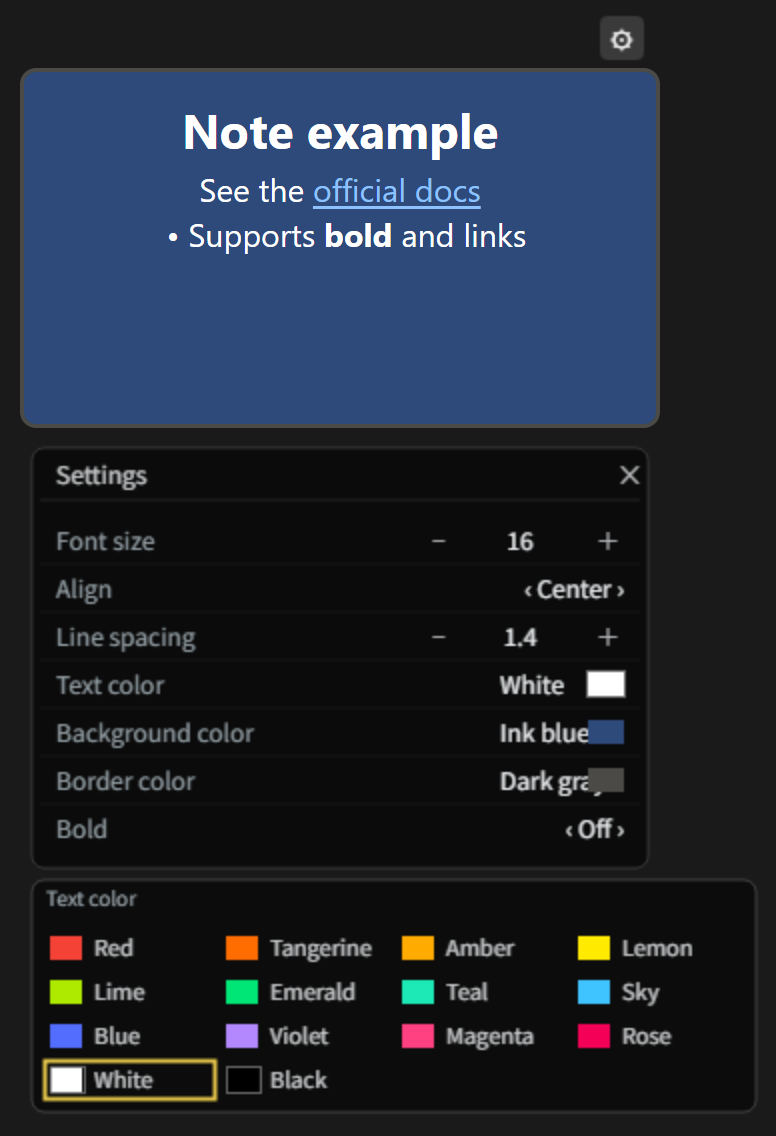
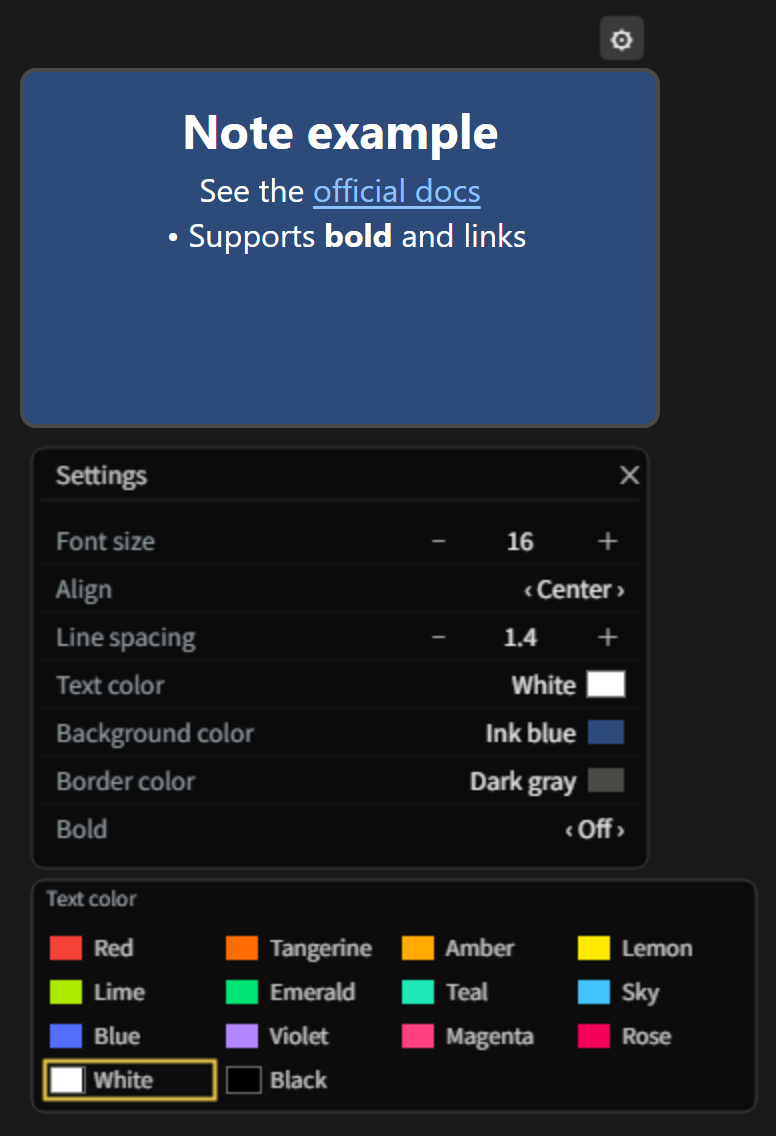
fix: stop clipping long color names in the settings panel; publish the test suite
Panel drawing (English UI showed "Dark gra" running into the swatch):

- the color value was drawn left-aligned from `right - 62`, so any name wider
  than ~44px grew rightwards into the swatch (drawn at `right - 18` … `right`)
- it is now right-aligned to `right - 24`, i.e. flush against the swatch with a
  6px gap — matches how the align/bold rows already right-align their value
- palette cells also got a guard: if a name does not fit the cell it steps the
  font down (11 → 8px) instead of running into the swatch

Tests are now part of the repo:

- `tests/check.js` — the mocked-browser assertion suite (no dependencies,
  `node tests/check.js`), covering registration, i18n, placeholder hints +
  legacy migration, the render layer, click-to-edit and caret placement, drag /
  link guards, panel geometry and the new drawing alignment; both the
  `ComfyWidgets.STRING` and the `addWidget` fallback path are exercised
- the two alignment assertions were mutation-tested: restoring the old
  `left` / `right - 62` line makes them fail (4 failures), so they do guard the
  regression rather than merely passing
- readme: the stale "23 assertions" claim replaced with the real count (117)
  and how to run them, in both languages

Screenshots: the six images that show the settings panel regenerated (the two
hint-only shots are unchanged).

Changed region(s): [[0.5876, 0.5854, 0.7732, 0.7086]]

diff --git a/tests/check.js b/tests/check.js
@@ -1,0 +1,323 @@
+/* TextNote 断言测试（模拟浏览器，纯 Node 跑，无任何依赖）
+ * 用法: node tests/check.js      （Node 18+；直接读 ../web/textnote_canvas.js）
+ *
+ * 覆盖：注册、i18n 文案、占位提示与旧版迁移、渲染层富文本（超链接/Markdown/灰字提示）、
+ *       单击进编辑、光标落在点击处（含越界夹紧与不支持时的兜底）、拖动/链接不误触发、
+ *       设置面板几何与绘制对齐（英文长颜色名不再压到色块上）。
+ * 两条控件来源各跑一遍：真实 ComfyUI 的 ComfyWidgets.STRING 路径 + addWidget 回退路径。
+ */
+const fs = require("fs");
+const path = require("path");
+const SRC = path.resolve(__dirname, "..", "web", "textnote_canvas.js");
+
+let pass = 0, fail = 0;
+const ok = (cond, label) => {
+    if (cond) { pass++; console.log("  PASS " + label); }
+    else { fail++; console.log("  FAIL " + label); }
+};
+
+function makeEl(tag) {
+    const el = {
+        tagName: tag, style: {}, dataset: {}, children: [], value: "",
+        placeholder: undefined, listeners: {},
+        classList: { _s: new Set(), add(c) { this._s.add(c); }, contains(c) { return this._s.has(c); } },
+        setAttribute() {}, removeAttribute() {},
+        addEventListener(t, f) { (this.listeners[t] = this.listeners[t] || []).push(f); },
+        appendChild(c) { this.children.push(c); c.parentElement = this; return c; },
+        remove() {}, closest() { return null; }, focus() { this.__focused = true; },
+        setSelectionRange(s, e) { this.selectionStart = s; this.selectionEnd = e; this.__selCalls = (this.__selCalls || 0) + 1; },
+        getBoundingClientRect() { return this.__rect || { left: 0, top: 0, right: 0, bottom: 0, width: 0, height: 0 }; },
+    };
+    Object.defineProperty(el, "innerHTML", { get() { return this._html || ""; }, set(v) { this._html = v; } });
+    Object.defineProperty(el, "lastElementChild", { get() { return this.children[this.children.length - 1] || null; } });
+    return el;
+}
+
+/** 记录 fillText 调用的假 2D 上下文，用来断言面板是怎么画的（对齐/坐标） */
+function makeCtx() {
+    const state = {
+        textAlign: "left", textBaseline: "alphabetic",
+        font: "12px sans-serif", fillStyle: "", strokeStyle: "", lineWidth: 1,
+    };
+    const rec = { texts: [] };
+    const noop = () => {};
+    const ctx = {
+        save: noop, restore: noop, beginPath: noop, closePath: noop, moveTo: noop, lineTo: noop,
+        stroke: noop, fill: noop, rect: noop, arcTo: noop, strokeRect: noop, fillRect: noop,
+        roundRect: noop, clearRect: noop, translate: noop,
+        fillText(s, x, y) { rec.texts.push({ s: String(s), x, y, align: state.textAlign, font: state.font }); },
+        measureText(s) { return { width: String(s).length * 6 }; },
+    };
+    for (const k of Object.keys(state)) {
+        Object.defineProperty(ctx, k, { get: () => state[k], set: (v) => { state[k] = v; }, enumerable: true });
+    }
+    return { ctx, rec };
+}
+
+function loadModule({ withComfyWidgets }) {
+    let src = fs.readFileSync(SRC, "utf8");
+    src = src.replace(/^[ \t]*import .*$/m, "");      // 去掉 ESM import，改用注入的 app
+
+    const cap = { raf: 0 };
+    globalThis.window = globalThis;
+    globalThis.LiteGraph = { registerNodeType: (n, cls) => { cap.name = n; cap.cls = cls; } };
+    globalThis.LGraphNode = class {
+        constructor() { this.widgets = []; this.properties = {}; this.flags = {}; }
+        addWidget(type, name, value, cb, opts) {
+            const w = { type, name, value, options: opts || {} };
+            this.widgets.push(w);
+            return w;
+        }
+        setDirtyCanvas() {}
+    };
+    globalThis.document = {
+        head: makeEl("head"), body: makeEl("body"),
+        getElementById() { return null; },
+        createElement: (t) => makeEl(t),
+        caretPositionFromPoint: null,
+        caretRangeFromPoint: null,
+    };
+    // 同步化定时器/帧回调，测试里不需要真等待
+    globalThis.setTimeout = (fn) => { fn(); return 0; };
+    globalThis.requestAnimationFrame = (fn) => { cap.raf++; fn(); return 0; };
+    try { Object.defineProperty(globalThis, "navigator", { value: { language: "zh-CN" }, configurable: true }); } catch {}
+
+    if (withComfyWidgets) {
+        globalThis.comfyAPI = { widgets: { ComfyWidgets: { STRING: (node, name, spec) => {
+            // 模仿前端 createMultilineInputElement：default → value，placeholder → textarea
+            const ta = makeEl("textarea");
+            ta.value = spec[1].default;
+            ta.placeholder = spec[1].placeholder;
+            const w = { type: "customtext", name, value: ta.value, options: {}, element: ta, inputEl: ta };
+            node.widgets.push(w);
+            cap.spec = spec;
+            return { widget: w };
+        } } } };
+    } else {
+        delete globalThis.comfyAPI;
+    }
+
+    const app = { registerExtension(ext) { ext.registerCustomNodes(); } };
+    const fn = new Function("app", src + "\nreturn { renderRichText, normalizeNoteText, LEGACY_PLACEHOLDER_TEXTS, I18N, CLICK_DRAG_TOLERANCE };");
+    return { cap, api: fn(app) };
+}
+
+const noLink = { closest: () => null };
+const linkTarget = { closest: (sel) => (sel === "a" ? {} : null) };
+
+for (const mode of [true, false]) {
+    console.log("\n=== ComfyWidgets 路径: " + (mode ? "有（真实 ComfyUI）" : "无（回退 addWidget）") + " ===");
+    const { cap, api } = loadModule({ withComfyWidgets: mode });
+    const node = new cap.cls();
+    const textW = node.widgets.find((w) => w.name === "text");
+    const ZH = api.I18N.zh.defaultText;
+    const EN = api.I18N.en.defaultText;
+
+    /* ---------- 注册与默认值 ---------- */
+    ok(cap.name === "TextNote", "节点注册名 TextNote");
+    ok(!!textW, "存在 text 正文控件");
+    ok(textW.value === "", "新建便签正文默认为空字符串（不需要再删提示文字）");
+    ok(textW.options.hideOnZoom === false, "正文控件 hideOnZoom=false");
+
+    /* ---------- 提示文案：v4.3 改成了「单击」 ---------- */
+    ok(ZH.includes("单击即可输入"), "中文提示是「单击即可输入」");
+    ok(!ZH.includes("双击"), "中文提示不再写「双击」");
+    ok(EN.includes("Click to edit"), "英文提示是 Click to edit");
+    ok(!EN.includes("Double-click"), "英文提示不再写 Double-click");
+    if (mode) ok(cap.spec[1].placeholder === ZH, "STRING spec 带上 placeholder（前端原生写入 textarea）");
+
+    /* ---------- 空便签的灰色占位提示 ---------- */
+    const hint = api.renderRichText("");
+    ok(hint.includes("在这里写说明、备注…"), "空便签渲染出中文占位提示");
+    ok(hint.includes("white-space:pre-wrap"), "占位提示保留换行（pre-wrap）");
+    ok(hint.includes("opacity:.45"), "占位提示为灰色弱化显示");
+    ok(api.renderRichText("   ").includes("在这里写说明"), "纯空白也按空便签处理");
+    ok(!api.renderRichText("# 我的标题").includes("在这里写说明"), "有正文时不再显示占位提示");
+    ok(api.renderRichText("**粗**").includes("<b>粗</b>"), "加粗渲染仍正常");
+    ok(api.renderRichText("[标题](https://a.com)").includes('href="https://a.com"'), "超链接渲染仍正常");
+
+    /* ---------- 旧工作流占位提示清理（覆盖所有已发布文案） ---------- */
+    for (const old of [
+        "在这里写说明、备注…",
+        "Write notes and remarks here",
+        "  在这里写说明、备注…  ",
+        "Write notes and remarks here\r\n",
+        "在这里写说明、备注…\n双击编辑；支持 [标题](链接) 超链接",
+        "Write notes here…\r\nDouble-click to edit; [label](link) supported  ",
+    ]) {
+        textW.value = old;
+        ok(node._clearLegacyPlaceholder() === true && textW.value === "",
+            "旧版提示被识别并清空: " + JSON.stringify(old.slice(0, 22)) + "…");
+    }
+    const keep = "在这里写说明、备注…\n双击编辑；支持 [标题](链接) 超链接我的补充";
+    textW.value = keep;
+    ok(node._clearLegacyPlaceholder() === false, "用户改过的文字不会被误清");
+    ok(textW.value === keep, "误清检查后正文保持原样");
+    textW.value = "便签备注";
+    ok(node._clearLegacyPlaceholder() === false, "普通正文不受影响");
+
+    /* ---------- 渲染层 ---------- */
+    node._renderDiv = makeEl("div");
+    textW.value = "";
+    node._renderIntoDiv();
+    ok(node._renderDiv.innerHTML.includes("在这里写说明"), "_renderIntoDiv 空正文 → 占位提示");
+    ok(node._renderDiv.__lastText === "", "渲染层缓存 __lastText 为空字符串");
+    textW.value = "在这里写说明、备注…\n双击编辑；支持 [标题](链接) 超链接";
+    node._renderIntoDiv();
+    ok(textW.value === "" && node._renderDiv.innerHTML.includes("在这里写说明"),
+        "_renderIntoDiv 自动清掉旧占位提示后再渲染");
+
+    /* ---------- 单击进编辑 + 光标落点 ---------- */
+    const ta = makeEl("textarea");
+    ta.parentElement = makeEl("div");
+    node.textWidget.inputEl = ta;
+    node.textWidget.element = ta;
+    textW.value = "第一行\n第二行 hello";
+    ta.value = textW.value;
+    node.applyNoteStyles();
+    const div = node._renderDiv;
+    ok(!!(div.listeners.click && div.listeners.click.length), "渲染层绑定了单击（click）事件");
+    ok(!div.listeners.dblclick, "不再依赖双击（dblclick）");
+
+    const click = (x, y, target) => {
+        (div.listeners.mousedown || []).forEach((f) => f({ clientX: x, clientY: y, target: target || noLink }));
+        (div.listeners.click || []).forEach((f) =>
+            f({ clientX: x, clientY: y, target: target || noLink, stopPropagation() {} }));
+    };
+
+    // 点击坐标 → 浏览器报出的字符下标 → 光标应落在那里
+    globalThis.document.caretPositionFromPoint = () => ({ offsetNode: ta, offset: 6 });
+    node._editMode = false;
+    click(120, 60);
+    ok(node._editMode === true, "单击正文 → 进入编辑态");
+    ok(ta.__focused === true, "进入编辑态后 textarea 获得焦点");
+    ok(ta.selectionStart === 6 && ta.selectionEnd === 6, "光标落在点击处（下标 6，无需方向键）");
+
+    // 越界下标要被夹到 [0, len]
+    globalThis.document.caretPositionFromPoint = () => ({ offsetNode: ta, offset: 9999 });
+    node._editMode = false;
+    click(120, 60);
+    ok(ta.selectionStart === ta.value.length, "越界下标被夹到正文末尾");
+    globalThis.document.caretPositionFromPoint = () => ({ offsetNode: ta, offset: -5 });
+    node._editMode = false;
+    click(120, 60);
+    ok(ta.selectionStart === 0, "负下标被夹到 0");
+
+    // 点正文最后一行下方空白 → 光标到末尾
+    const lastLine = makeEl("div");
+    lastLine.__rect = { left: 0, top: 0, right: 100, bottom: 40, width: 100, height: 20 };
+    div.appendChild(lastLine);
+    globalThis.document.caretPositionFromPoint = () => ({ offsetNode: ta, offset: 4 });
+    node._editMode = false;
+    click(50, 90);
+    ok(ta.selectionStart === ta.value.length, "点最后一行下方的空白 → 光标到正文末尾");
+
+    // 不支持 caretPositionFromPoint 的浏览器：兜底 + 下一帧重试
+    globalThis.document.caretPositionFromPoint = null;
+    globalThis.document.caretRangeFromPoint = () => ({ startContainer: document.body, startOffset: 2 });
+    const rafBefore = cap.raf;
+    node._editMode = false;
+    click(50, 10);
+    ok(node._editMode === true, "命中失败也能进编辑态（不卡住）");
+    ok(cap.raf > rafBefore, "命中失败会安排下一帧重试");
+
+    // 兜底是按行高估算行号，而不是傻跳到末尾
+    div.children.length = 0;        // 清掉上面用于测「点最后一行下方」的假元素
+    ta.__rect = { left: 0, top: 100, right: 300, bottom: 250, width: 300, height: 150 };
+    textW.value = "第一行aaa\n第二行bbb\n第三行ccc";
+    ta.value = textW.value;
+    globalThis.document.caretRangeFromPoint = null;      // 完全命中不到
+    node._editMode = false;
+    click(50, 130);                                      // 130 = top + 20*1.5 → 第 2 行
+    ok(ta.selectionStart === "第一行aaa".length + 1,
+        "命中不到时兜底到点击所在行的行首（不是末尾）");
+    node._editMode = false;
+    click(50, 240);                                      // 最后一行之下 → 末尾
+    ok(ta.selectionStart === ta.value.length, "点在正文最后一行之下时兜底到末尾");
+    ta.__rect = null;
+    ta.value = "";
+
+    // 兼容 caretRangeFromPoint 返回 textarea 内部文本节点的情况
+    textW.value = "abcdef";
+    ta.value = textW.value;
+    const inner = makeEl("#text");
+    inner.nodeType = 3;
+    inner.parentElement = { closest: (sel) => (sel === "textarea" ? ta : null) };
+    globalThis.document.caretRangeFromPoint = () => ({ startContainer: inner, startOffset: 3 });
+    node._editMode = false;
+    click(50, 10);
+    ok(ta.selectionStart === 3, "caretRangeFromPoint 返回 textarea 内文本时也能定位");
+
+    /* ---------- 链接 / 拖动 不误触发编辑 ---------- */
+    globalThis.document.caretPositionFromPoint = () => ({ offsetNode: ta, offset: 2 });
+    let stopped = false;
+    node._editMode = false;
+    (div.listeners.mousedown || []).forEach((f) => f({ clientX: 10, clientY: 10, target: linkTarget }));
+    (div.listeners.click || []).forEach((f) =>
+        f({ clientX: 10, clientY: 10, target: linkTarget, stopPropagation() { stopped = true; } }));
+    ok(node._editMode === false, "点超链接不进编辑态（照常打开链接）");
+    ok(stopped === true, "点超链接阻止冒泡（不触发画布拖动）");
+
+    node._editMode = false;
+    (div.listeners.mousedown || []).forEach((f) => f({ clientX: 10, clientY: 10, target: noLink }));
+    (div.listeners.click || []).forEach((f) =>
+        f({ clientX: 10 + api.CLICK_DRAG_TOLERANCE + 20, clientY: 10, target: noLink, stopPropagation() {} }));
+    ok(node._editMode === false, "按下后拖动超过阈值 → 不进编辑态（可继续挪节点）");
+
+    node._editMode = false;
+    (div.listeners.mousedown || []).forEach((f) => f({ clientX: 10, clientY: 10, target: noLink }));
+    (div.listeners.click || []).forEach((f) =>
+        f({ clientX: 10 + api.CLICK_DRAG_TOLERANCE - 1, clientY: 10, target: noLink, stopPropagation() {} }));
+    ok(node._editMode === true, "阈值内的轻微抖动仍算单击");
+
+    /* ---------- 样式与面板 ---------- */
+    node._editMode = false;
+    node.applyNoteStyles();
+    ok(ta.placeholder === ZH, "textarea placeholder 设置为提示文案");
+    ok(ta.classList.contains("tn-textnote-input"), "textarea 打上样式类（::placeholder 跟随文字色）");
+    ta.value = "SENTINEL";                 // 插件不得往 value 里写任何东西（尤其提示文案）
+    node.applyNoteStyles();
+    ok(ta.value === "SENTINEL", "applyNoteStyles 不碰 textarea 的 value（提示不进正文）");
+    ok(ta.value !== ZH, "提示文案没有被塞进 textarea");
+    ta.value = "";
+
+    node._renderDiv = makeEl("div");
+    node._previewH = 160;
+    node.settingsOpen = true;
+    node.applyNoteStyles();
+    ok(node._renderDiv.style.display === "", "齿轮面板展开时渲染层仍显示（正文预览不空白）");
+    ok(node._renderDiv.style.opacity === "1", "非编辑态渲染层不透明");
+    node._editMode = true;
+    node.applyNoteStyles();
+    ok(node._renderDiv.style.opacity === "0", "编辑态渲染层透明，让位给 textarea");
+    ok(node._renderDiv.style.height === "160px", "预览区高度跟面板展开高度一致（不与面板重叠）");
+    node._editMode = false;
+    node.settingsOpen = false;
+
+    /* ---------- 面板绘制：颜色名不能被色块挤掉（英文长名字曾压到色块上） ---------- */
+    node.settingsOpen = true;
+    node._previewH = 180;
+    node.openMenu = null;
+    const { ctx: mockCtx, rec } = makeCtx();
+    node.applyNoteStyles();
+    node.onDrawBackground(mockCtx);
+
+    const pr = node.panelRect();
+    const rightEdge = pr[0] + pr[2] - 8 - 4;            // 与绘制侧一致的 right
+    const colorNames = ["白", "墨蓝", "深灰", "White", "Ink blue", "Dark gray"];
+    const drawnColors = rec.texts.filter((x) => colorNames.includes(x.s));
+    ok(drawnColors.length >= 3, "面板画出了三行颜色名（当前有 " + drawnColors.length + " 行）");
+    ok(drawnColors.every((x) => x.align === "right"), "颜色名右对齐（长名字不再往右长、压到色块上）");
+    ok(drawnColors.every((x) => Math.abs(x.x - (rightEdge - 24)) < 0.01),
+        "颜色名右端固定在色块左侧 6px（色块占 right-18 … right）");
+    const sizeText = rec.texts.find((x) => x.s === "16");
+    ok(!!sizeText && sizeText.align === "center", "字号数值仍居中显示（没被顺手改掉）");
+    ok(rec.texts.some((x) => x.s === "设置" || x.s === "Settings"), "面板标题仍然绘制");
+    node.settingsOpen = false;
+
+    ok((() => { try { node._syncRenderDiv(); return true; } catch (e) { console.log(e); return false; } })(),
+        "_syncRenderDiv 无 textarea 时不抛错");
+}
+
+console.log("\n总计: " + pass + " passed, " + fail + " failed");
+process.exit(fail ? 1 : 0);

diff --git a/web/textnote_canvas.js b/web/textnote_canvas.js
@@ -885,9 +885,12 @@ app.registerExtension({
                     } else if (MENU_ROWS.includes(key)) {
                         const hex = w ? String(w.value) : "";
                         const nameText = colorName(hex, paletteFor(key));
-                        ctx.textAlign = "left";
+                        // 颜色名右对齐到色块左侧（色块占 right-18 … right，留 6px 间隙）。
+                        // 原来左对齐在 right-62 起笔，英文长名字（Dark gray / Slate blue /
+                        // Dusty violet…）会往右长、压到色块上，看起来像被裁掉。
+                        ctx.textAlign = "right";
                         ctx.fillStyle = "#ECEFF1";
-                        ctx.fillText(nameText, right - 62, midY);
+                        ctx.fillText(nameText, right - 24, midY);
                         if (hex === "transparent") {
                             ctx.strokeStyle = "rgba(128,128,128,0.8)";
                             ctx.lineWidth = 1;
@@ -973,9 +976,17 @@ app.registerExtension({
                         ctx.strokeRect(cell.x + 1.5, cell.y + 1.5, cell.w - 3, cell.h - 3);
                     }
                     ctx.fillStyle = "rgba(236,239,241,0.85)";
-                    ctx.font = "11px sans-serif";
                     ctx.textAlign = "left";
-                    ctx.fillText(cell.c[LANG()] || cell.c.en, cell.x + 26, cell.y + cell.h / 2);
+                    // 色卡单元格里的名字：装不下就逐级缩字号（英文长名如 Dusty violet 刚好卡边）
+                    const cellText = cell.c[LANG()] || cell.c.en;
+                    const avail = cell.w - 28;
+                    let cellFs = 11;
+                    ctx.font = cellFs + "px sans-serif";
+                    while (cellFs > 8 && ctx.measureText(cellText).width > avail) {
+                        cellFs--;
+                        ctx.font = cellFs + "px sans-serif";
+                    }
+                    ctx.fillText(cellText, cell.x + 26, cell.y + cell.h / 2);
                 }
                 ctx.restore();
             }

diff --git a/readme.md b/readme.md
@@ -79,7 +79,7 @@ While in edit mode the note body is a plain text box, so selecting and editing t
 
 - Developed and tested against **ComfyUI 0.35.1 / frontend 1.51.10**; re-verified on **frontend 1.53.6** (widget/multiline DOM internals). Uses standard `LGraphNode` + `registerCustomNodes` extension APIs
 - Caret placement on click uses the standard `caretPositionFromPoint` API (Chrome / Edge / Firefox); on engines without it, the caret falls back to the clicked line instead of the very end
-- 23 mocked-browser assertions cover registration, i18n, palettes, panel geometry, click hit-zones and legacy migration
+- **117 mocked-browser assertions** (`node tests/check.js`, no dependencies) cover registration, i18n, placeholder hints, legacy migration, the render layer, click-to-edit + caret placement, palettes, panel geometry and drawing alignment — each run against both the `ComfyWidgets.STRING` path and the `addWidget` fallback
 
 ### Customize
 
@@ -88,7 +88,7 @@ Edit `web/textnote_canvas.js`:
 - `FONT_COLORS` / `BG_COLORS` / `BORDER_COLORS` — palettes (`{ hex, zh, en }`)
 - `I18N` — UI strings
 - `NUM_ROWS` — min/max/step for numeric rows
-- Refresh the browser page after editing.
+- Refresh the browser page after editing, and run `node tests/check.js` to make sure nothing regressed (117 assertions, no dependencies)
 
 ---
 
@@ -162,6 +162,7 @@ ComfyUI/custom_nodes/ComfyUI-TextNote/
 
 - 在 **ComfyUI 0.35.1 / 前端 1.51.10** 上开发并实测；在 **前端 1.53.6** 上复测通过（多行控件 DOM 实现）。使用标准 `LGraphNode` + `registerCustomNodes` 扩展 API
 - 单击定位光标用标准 `caretPositionFromPoint`（Chrome / Edge / Firefox）；浏览器不支持时退化为「放到点击那一行」，不会掉到末尾
+- **117 项模拟浏览器断言**（`node tests/check.js`，无需装依赖）覆盖注册、双语文案、占位提示与旧版迁移、渲染层、单击编辑与光标定位、色板、面板几何与绘制对齐；`ComfyWidgets.STRING` 与 `addWidget` 两条控件来源各跑一遍
 
 ### 自定义
 
@@ -170,7 +171,7 @@ ComfyUI/custom_nodes/ComfyUI-TextNote/
 - `FONT_COLORS` / `BG_COLORS` / `BORDER_COLORS` — 三张色表（`{ hex, zh, en }`）
 - `I18N` — 界面文案
 - `NUM_ROWS` — 字号/行距的最小值、最大值、步长
-- 改完刷新浏览器页面即可。
+- 改完刷新浏览器页面；再跑一遍 `node tests/check.js` 自检（117 项断言，无需装依赖）
 
 ## License / 许可
 
